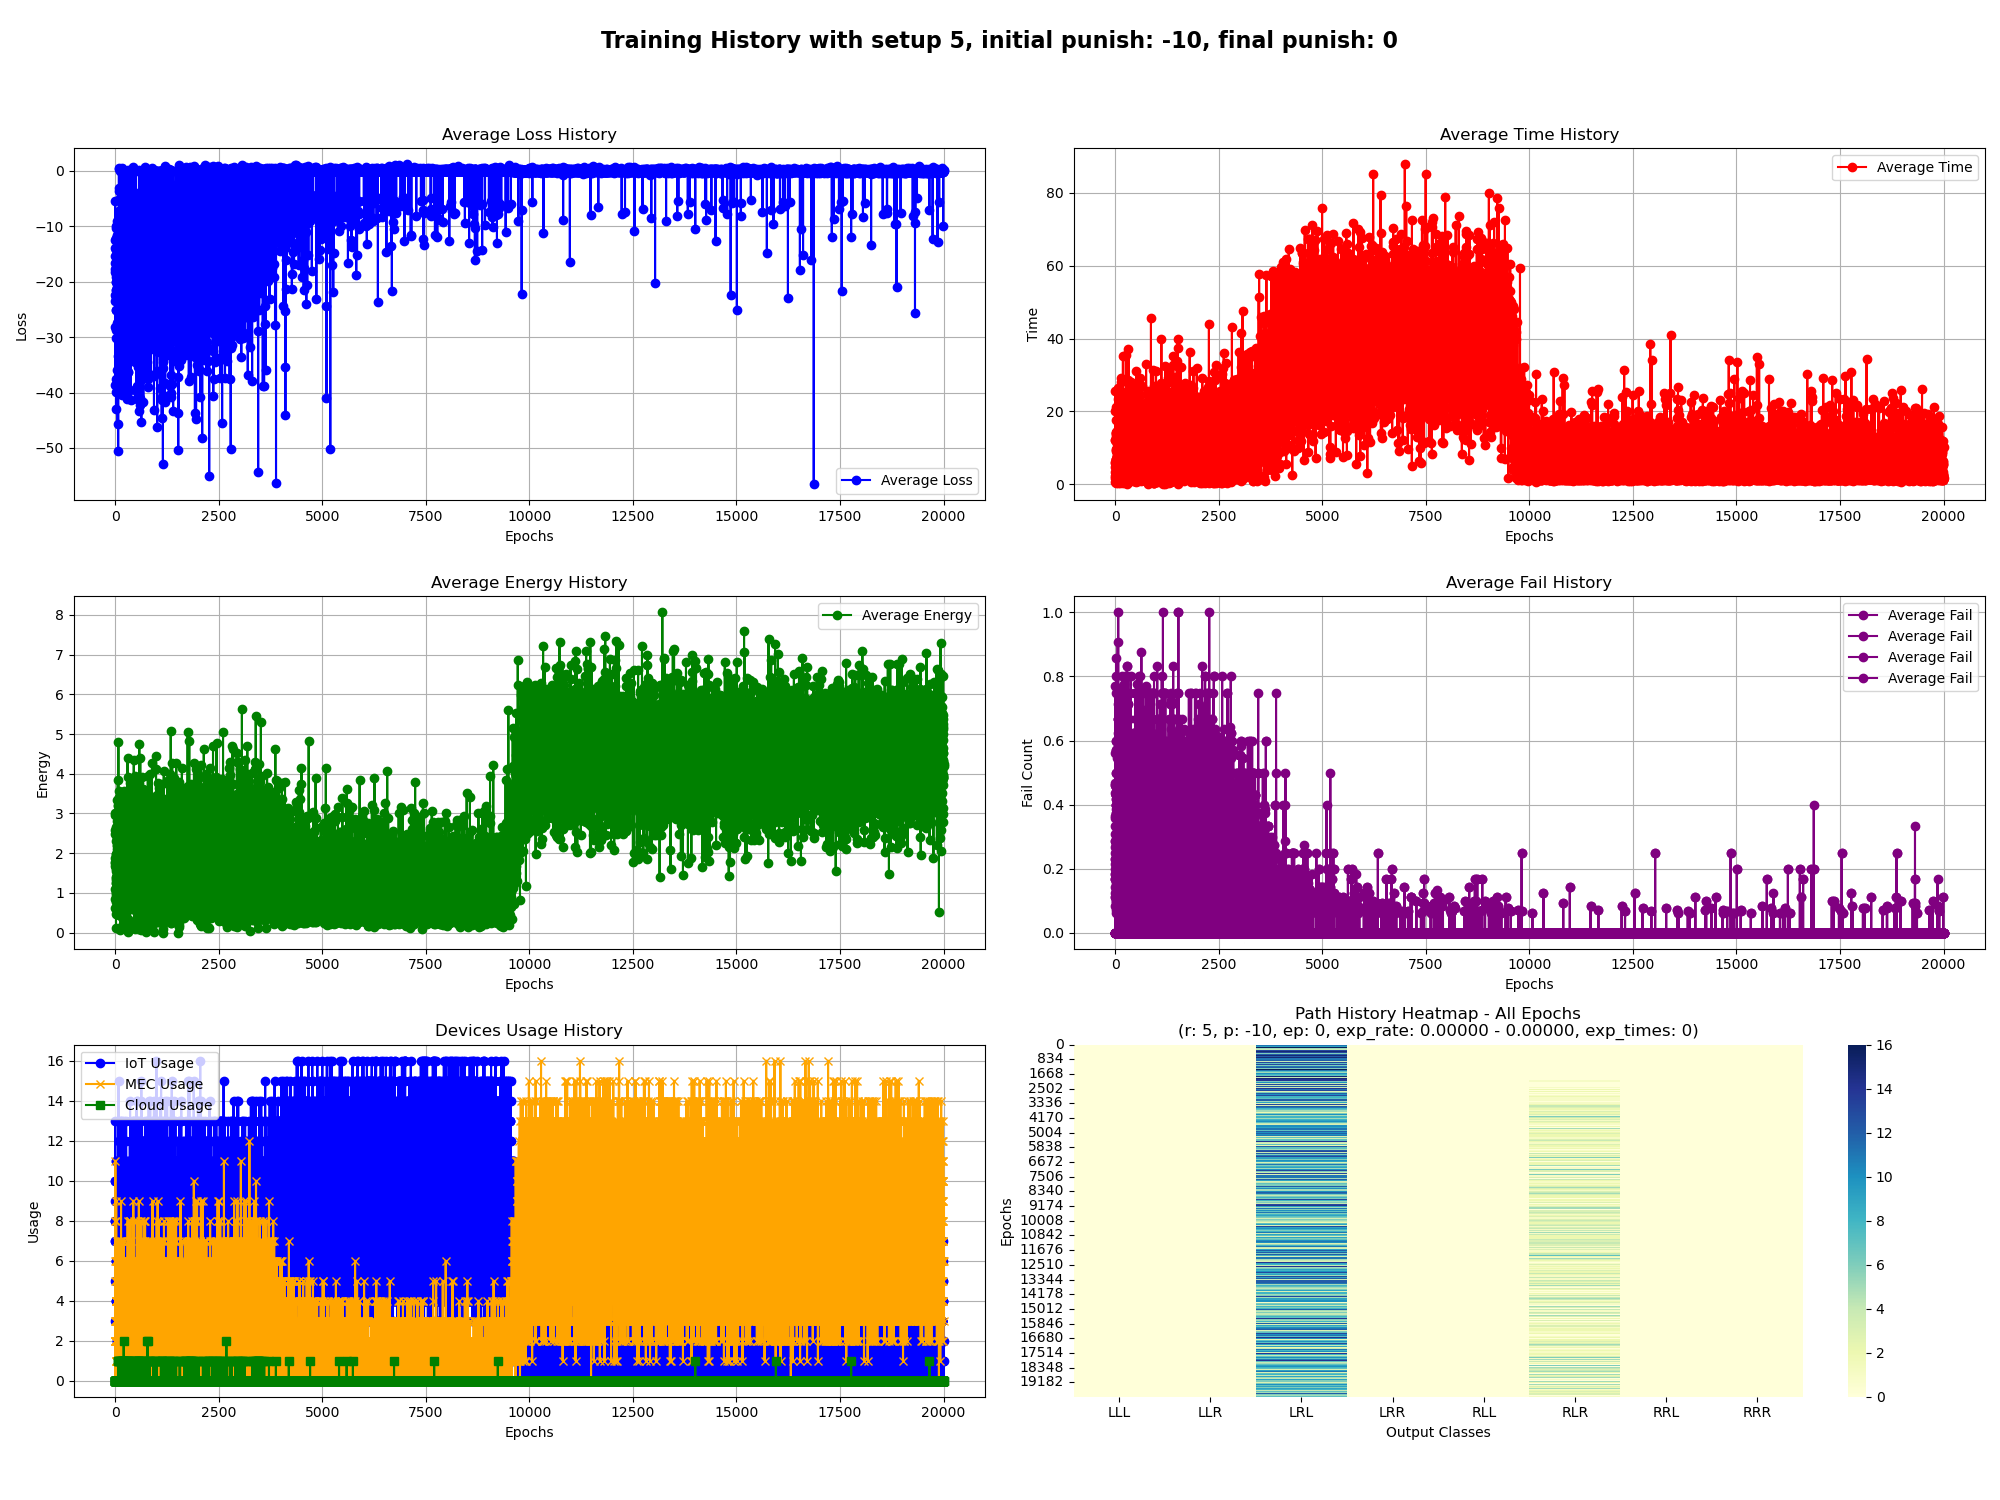
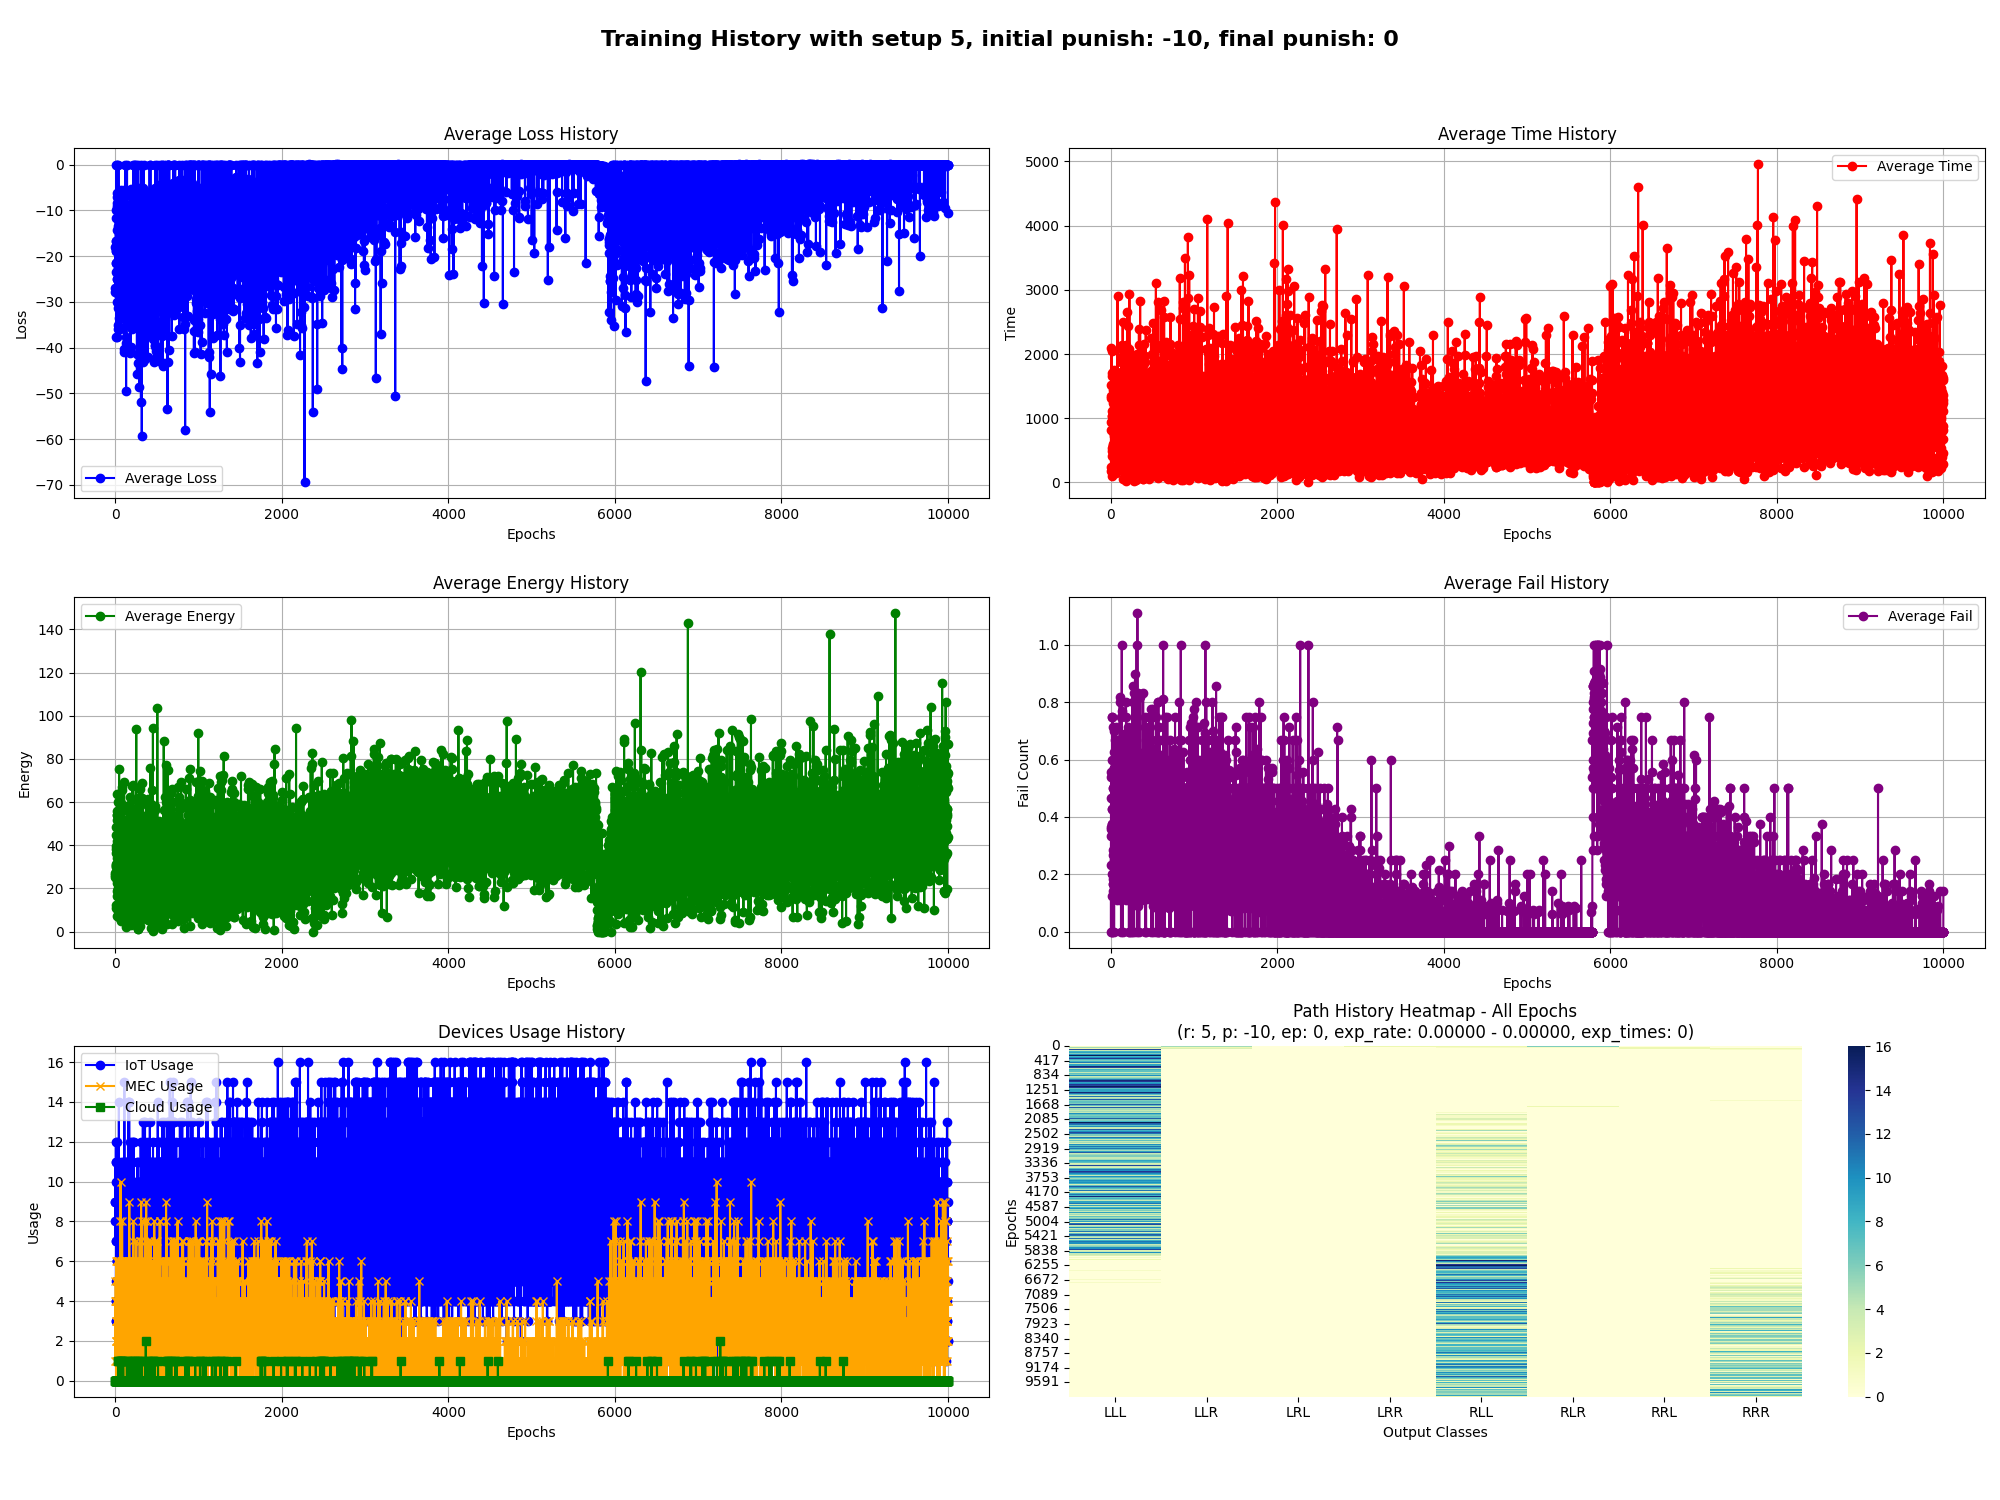
regulrize output

diff --git a/data/db.py b/data/db.py
@@ -1,7 +1,7 @@
 from data.gen import Generator
 from sklearn.preprocessing import MinMaxScaler
 import pandas as pd
-
+from config import devices_config,jobs_config
 
 class Database:
     _instance = None
@@ -12,6 +12,7 @@ class Database:
             cls._instance._devices = Generator.get_devices()
             cls._instance._jobs, cls._instance._tasks = Generator.get_jobs()
             cls._instance._task_norm = cls._instance.normalize_tasks(cls._instance._tasks.copy())
+            cls._instance.min_time, cls._instance.max_time, cls._instance.min_energy, cls._instance.max_energy = cls._instance.get_min_max_time_energy()
         return cls._instance
     
     @classmethod
@@ -111,4 +112,110 @@ class Database:
             self._devices.at[idx, 'occupied_cores'] = updated_cores
 
 
-        
+    def get_min_max_time_energy(self):
+        min_time = float('inf')
+        max_time = float('-inf')
+        min_energy = float('inf')
+        max_energy = float('-inf')
+
+        for device_type, device in devices_config.items():
+            max_dvfs = max(device['voltage_frequencies'], key=lambda vf: vf[0])
+            min_dvfs = min(device['voltage_frequencies'], key=lambda vf: vf[0])
+            dvfss = [min_dvfs,max_dvfs]
+            compLoad = [min(jobs_config["task"]["computational_load"]), max(jobs_config["task"]["computational_load"])]
+            inputs = [min(jobs_config["task"]["input_size"]), max(jobs_config["task"]["input_size"])]
+            outputs = [min(jobs_config["task"]["output_size"]), max(jobs_config["task"]["output_size"])]
+            # Use the smallest and largest computational loads
+            for dvfs in dvfss:
+                for load in compLoad:
+                    for input in inputs:
+                        for output in outputs:
+                            task = {"computational_load": load,
+                                    "input_size": input,
+                                    "output_size":output}
+                            
+                            # Calculate execution time and energy
+                            total_time, total_energy = calc_total(device_type, task,dvfs)
+            
+                            min_time = min(min_time, total_time)
+                            max_time = max(max_time, total_time)
+                            min_energy = min(min_energy, total_energy)
+                            max_energy = max(max_energy, total_energy)
+        return min_time, max_time, min_energy, max_energy
+
+
+
+
+
+# FORMULAS
+def calc_execution_time(task,  dvfs):
+        return task["computational_load"] / dvfs[0]
+
+
+def calc_power_consumption(device_type, task, dvfs):
+    if device_type == "cloud":
+        return dvfs[1]
+    return (1e-9 * dvfs[1] ** 2) *dvfs[0]
+
+
+def calc_energy(device_type, task, dvfs):
+    return calc_execution_time( task,  dvfs) * calc_power_consumption(device_type, task, dvfs)
+
+
+def calc_total(device_type, task, dvfs):
+    timeTransMec = 0
+    timeTransCC = 0
+    baseTime = 0
+    baseEnergy = 0
+    totalEnergy = 0
+    totalTime = 0
+
+    transferRate5g = 1e9
+    latency5g = 5e-3
+    transferRateFiber = 1e10
+    latencyFiber = 1e-3
+
+    timeDownMec = task["output_size"] / transferRate5g
+    timeDownMec += latency5g
+    timeUpMec = task["input_size"] / transferRate5g
+    timeUpMec += latency5g
+
+    alpha = 52e-5
+    beta = 3.86412
+    powerMec = alpha * 1e9 / 1e6 + beta
+
+    timeDownCC = task["output_size"] / transferRateFiber
+    timeDownCC += latencyFiber
+    timeUpCC = task["input_size"] / transferRateFiber
+    timeUpCC += latencyFiber
+
+    powerCC = 3.65
+
+    if device_type== "mec":
+        timeTransMec = timeUpMec + timeDownMec
+        energyTransMec = powerMec * timeTransMec
+        baseTime = calc_execution_time( task,  dvfs)
+        totalTime = baseTime + timeTransMec
+        baseEnergy = calc_energy( device_type,task,  dvfs)
+        totalEnergy = baseEnergy + energyTransMec
+
+    elif device_type == "cloud":
+        timeTransMec = timeUpMec + timeDownMec
+        energyTransMec = powerMec * timeTransMec
+
+        timeTransCC = timeUpCC + timeDownCC
+        energyTransCC = powerCC * timeTransCC
+
+        baseTime = calc_execution_time( task,  dvfs)
+        totalTime = baseTime + timeTransMec + timeTransCC
+
+        baseEnergy = calc_energy( device_type,  task, dvfs)
+        totalEnergy = baseEnergy + energyTransMec + energyTransCC
+
+    elif device_type == "iot":
+        baseTime = calc_execution_time( task, dvfs)
+        totalTime = baseTime
+        baseEnergy = calc_energy( device_type, task,  dvfs)
+        totalEnergy = baseEnergy
+
+    return totalTime, totalEnergy

diff --git a/env/env.py b/env/env.py
@@ -51,9 +51,9 @@ class Environment():
             battery_drain_punish, fail_flags[2] = checkBatteryDrain(reg_e,pe)
         if fail_flags[2]:
             return reward_function(punish=True), 0, 0, 1, 0, 0
-        # if self.shouldRegular:
-        # reg_t = regularize_any(total_t, 1)
-        # reg_e = regularize_any(total_e, 2)
+        if learning_config['regularize_output']:
+            reg_t = regularize_output(total_t=total_t)
+            reg_e = regularize_output(total_e=total_e)
         return reward_function(t=reg_t, e=reg_e) + battery_drain_punish, reg_t, reg_e, fail_flags[2], fail_flags[1], \
             fail_flags[0]
 
@@ -119,14 +119,14 @@ class Environment():
 
                 selected_device = self.devices[selected_device_index]
                 core_index = -1
-                for i,core in enumerate(selected_device['occupied_cores']):
-                    if core==-1:
-                        core_index = i
-                        Database().set_core_occupied(selected_device["id"], core_index)
-                        break
-                if core_index==-1:
-                    #TODO device full
-                    print("+_+_+_+_+_+_+ DEVICE FULL __+_+_+_+_+_+_+_")
+                # for i,core in enumerate(selected_device['occupied_cores']):
+                #     if core==-1:
+                #         core_index = i
+                #         Database().set_core_occupied(selected_device["id"], core_index)
+                #         break
+                # if core_index==-1:
+                #     #TODO device full
+                #     print("+_+_+_+_+_+_+ DEVICE FULL __+_+_+_+_+_+_+_")
                 (freq, vol) = selected_device['voltages_frequencies'][core_index][0]
                 reward, t, e, batteryFail, taskFail, safeFail = self.execute_action(pe_ID=selected_device_index,
                                                                                     core_i=core_index,
@@ -147,7 +147,7 @@ class Environment():
                 if selected_device['type'] == 'cloud':
                     usage_job[2] += 1
                 path_job.append(path)
-                Database().update_core_occupied()
+                # Database().update_core_occupied()
                 self.devices=Database().get_all_devices()
 
             loss_job = self.actor_critic.calc_loss()

diff --git a/config.py b/config.py
@@ -117,7 +117,7 @@ learning_config = {
     ###### INPUT & OUTPUT #######
     "onehot_kind": True,  # one-hotting the task kind
     "regularize_input": True,  # regularize the task/device features to feed the tree
-    "regularize_output": False,  # regularize t,e for the reward
+    "regularize_output": True,  # regularize t,e for the reward
     'pe_num_features': 7,
 
     ###### ALGORITHM #######
@@ -134,7 +134,7 @@ learning_config = {
 
     "discount_factor": 0,  # 0: reward , 0.99:return
 
-    "scalability": True,
+    "scalability": False,
     "add_device_iterations": 0.001,
     "remove_device_iterations": 0.001,
 

diff --git a/env/utils.py b/env/utils.py
@@ -199,6 +199,15 @@ def checkBatteryDrain(energy, device):
     return punish, batteryFail
 
 
+def regularize_output(total_t=0,total_e=0):
+    if total_e:
+        return (total_e-Database().min_energy)/(Database().max_energy-Database().min_energy)
+    if total_t:
+        return (total_t-Database().min_time)/(Database().max_time-Database().min_time)
+    
+
+
+
 # CLUSTERING
 def balance_kmeans_cluster(devices, k=2, random_state=42):
     data = [extract_pe_data_for_clustering(device) for device in devices]
